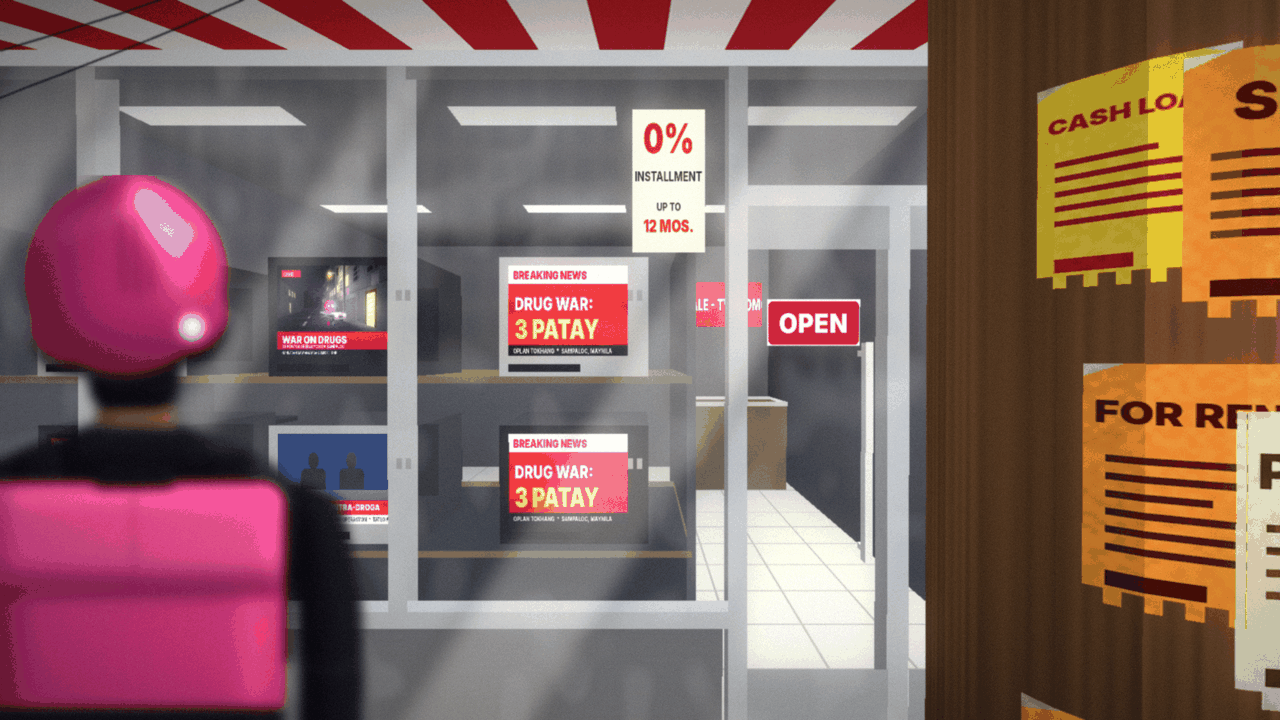
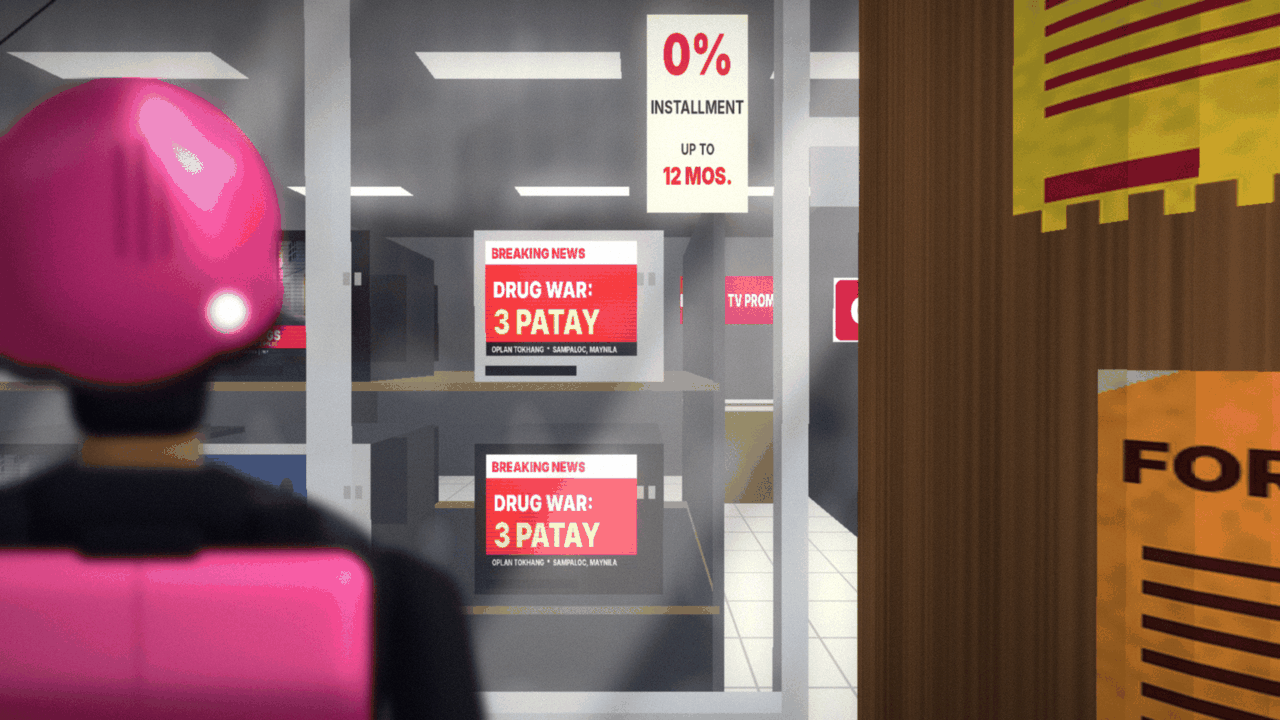
feat(art): bring the TV shop and Peter nearer, round the pole
Claude-Session: https://claude.ai/code/session_018qtt7uTeVSGsnvQanUjafP

diff --git a/tools/tv_store.py b/tools/tv_store.py
@@ -356,7 +356,7 @@ def poster_image(w: int, h: int, kind: int, seed: int) -> Image.Image:
     return Image.fromarray(np.clip(px, 0, 255).astype(np.uint8), "RGBA")
 
 
-def utility_pole(scene, cx, cz, radius=0.3, height=7.0, facets=20):
+def utility_pole(scene, cx, cz, radius=0.3, height=7.0, facets=56):
     """A thick wooden pole as a many-sided prism, its facing side covered in posters pasted over one
     another. Posters are cut across the facets so they wrap round the trunk."""
     wood = wood_texture(facets * 64, 1500)
@@ -514,7 +514,7 @@ def neighbour_store(scene, x0, x1, front_z, kind: str, quads=None):
 def build(size) -> Image.Image:
     """The picture, seen over the rider's shoulder."""
     w, h = size
-    camera = s3.Camera((1.25, 1.5, -2.0), 0.0, -0.4, 70.0, size)
+    camera = s3.Camera((1.2, 1.5, -1.45), 0.0, -0.4, 70.0, size)
     scene = s3.Scene(camera, ambient=(168, 170, 178), sky_dir=(0.15, 1.0, -0.25))
     scene.light((9.0, 11.0, -9.0), SUN, 900.0, reach=22.0)
 
@@ -623,7 +623,7 @@ def build(size) -> Image.Image:
     scene.face([(1.22, 2.45, -0.015), (1.5, 2.45, -0.015), (1.5, 1.9, -0.015), (1.22, 1.9, -0.015)], (250, 245, 220), texture=notice, layer=5, emissive=True)
 
     # ---- the wooden pole at the kerb in front of the neighbouring shop, with its shadow
-    pole_x, pole_z = 2.12, -1.05
+    pole_x, pole_z = 1.78, -0.85
     utility_pole(scene, pole_x, pole_z)
     pole_shadow = Image.new("RGBA", (60, 400), (0, 0, 0, 0))
     ImageDraw.Draw(pole_shadow).rectangle((10, 0, 50, 400), fill=(8, 8, 14, 150))
@@ -632,7 +632,7 @@ def build(size) -> Image.Image:
                (0, 0, 0), texture=pole_shadow, layer=1)
 
     # ---- the rider's shadow, thrown towards the shop, away from the sun
-    rider_x, rider_z = 0.55, -1.3
+    rider_x, rider_z = 0.75, -1.0
     shadow = Image.new("RGBA", (160, 520), (0, 0, 0, 0))
     sd = ImageDraw.Draw(shadow)
     sd.ellipse((58, 460, 102, 510), fill=(8, 8, 14, 190))

diff --git a/HANDOFF.md b/HANDOFF.md
@@ -169,6 +169,8 @@ Each is a tagged release on `main`. `git log --oneline` and `git tag -l` show th
 
 ## Where we stopped
 
+- **TV news scene, nearer (same branch):** camera moved to z -1.45 so the shop fills the picture, Peter is
+  nearer still (z -1.0) and blurred, the pole has 56 facets so it reads round.
 - **TV news scene, focus shot (same branch):** Peter is pushed to the left edge as a shoulder view and
   blurred (gaussian, premultiplied) so the lens focuses on the news; two shelves of three bigger sets
   (`crt_set(..., k=1.5)`) instead of three rows of five.
